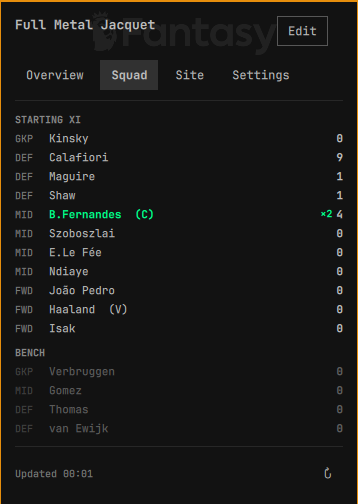
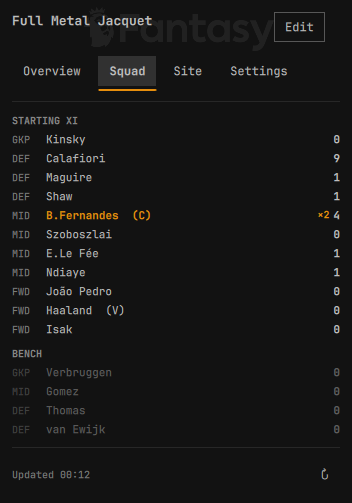
Refresh screenshots and header; add upcoming features
- Replace screenshots with cleanly cropped versions (removed the
  popup's own accent-colored border, which looked rough at gallery
  size) and re-redacted the manager name.
- Rebuilt header.png to mirror the real widget's current layout
  (underline tabs, full stats grid) instead of the earlier hand-made
  mockup, using a green/purple palette deliberately different from the
  screenshots' theme color to demonstrate the widget adapts to
  whatever Omarchy theme is active. Fictional team/data, and the chip
  grid shows a mix of Ready/Used/Active states for variety.
- Added an Upcoming Features section (fixtures, price tracking,
  fixture difficulty rating).

diff --git a/README.md b/README.md
@@ -148,6 +148,19 @@ per-player contributions were always computed as *live points × FPL's own
 multiplier*, so they were unaffected by this — only the Overview headline
 number was, and it's fixed.
 
+## Upcoming features
+
+Planned, not yet built:
+
+- **Fixtures** — match results and live scores for the gameweek, not just
+  your own points.
+- **Price tracking** — flag players in your squad (or on your watchlist)
+  who are likely to rise or fall in value, before it happens.
+- **Fixture difficulty rating** — at-a-glance FDR for every team's next five
+  gameweeks, for transfer and captaincy planning.
+
+Have a feature request? Open an issue.
+
 ## Privileges
 
 None. This plugin never requests `sudo`/`pkexec`, never touches system
